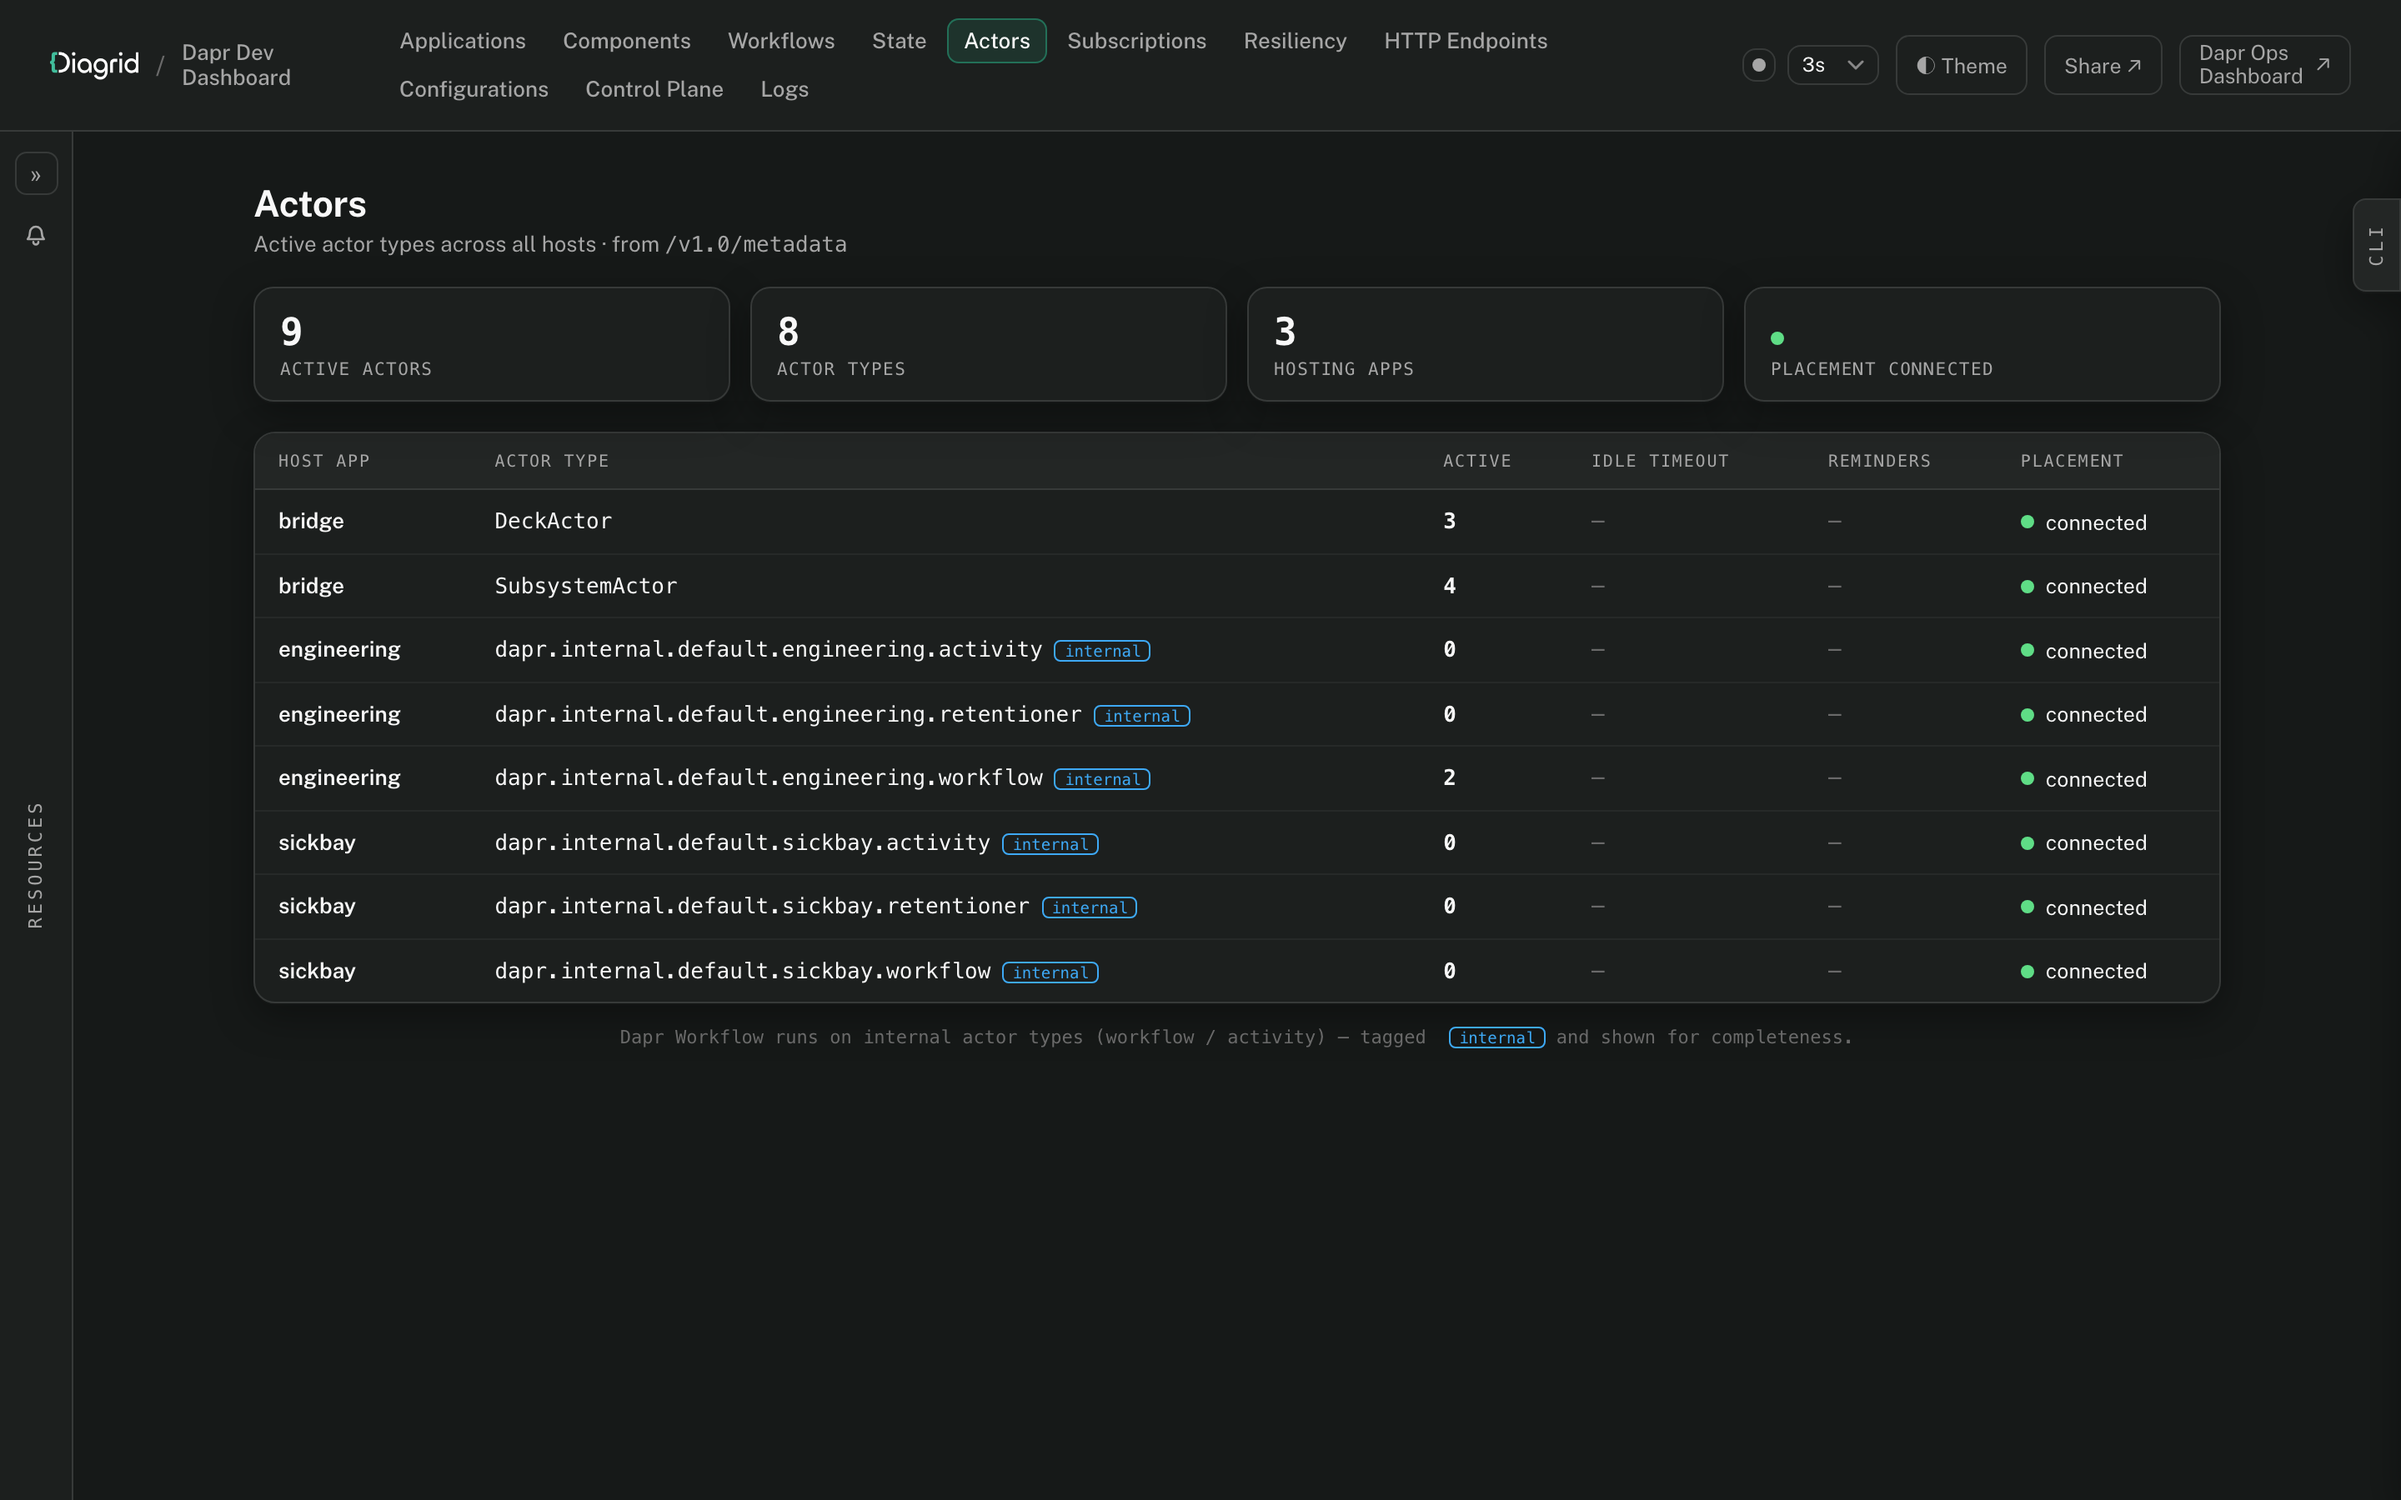
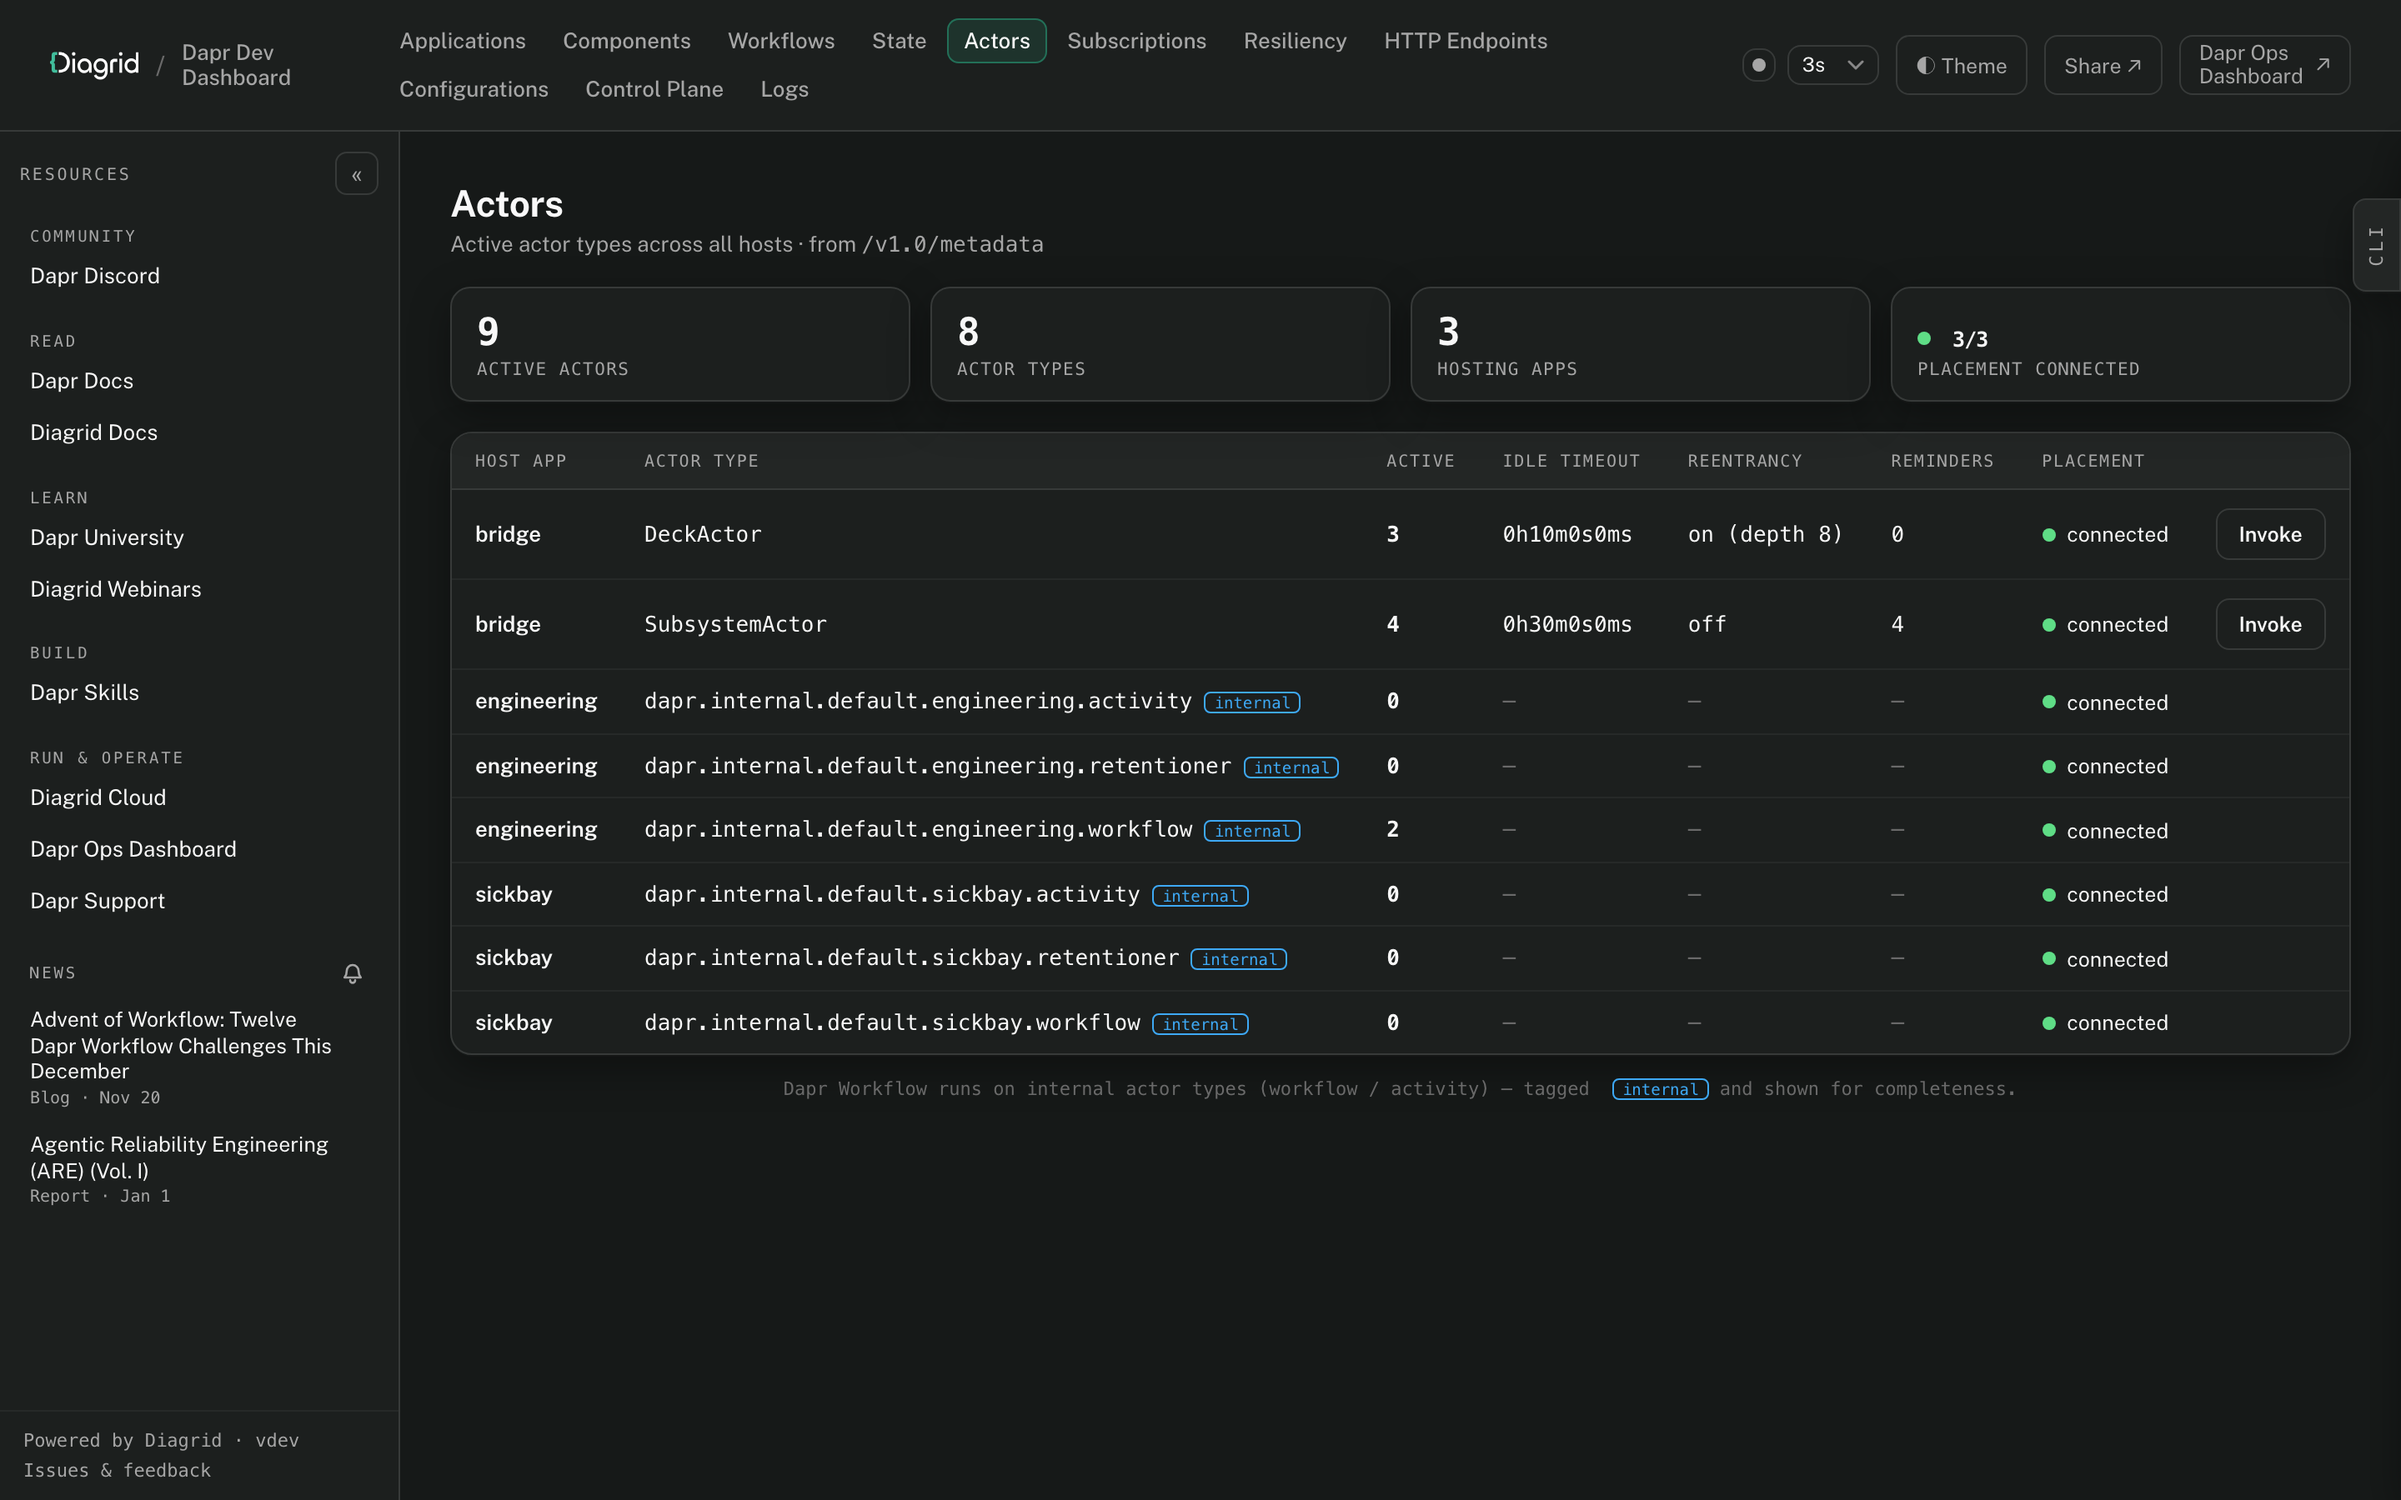
docs: actor pages and invoke screenshots

diff --git a/demo/README.md b/demo/README.md
@@ -59,7 +59,7 @@ The dashboard opens at <http://localhost:9090>.
 | App | Language | Dapr features | Dashboard pages |
 |---|---|---|---|
 | `engineering` | Go (go-sdk 1.16) | Workflows: `DiagnosticSweep` parents with `SubsystemCheck` children, activities, a durable timer, an external event, a 1.19 data reference (large payload in `binarystore.in-memory`); service-invocation target; cron input binding | Workflows, Workflow detail, Apps, App detail, Logs |
-| `bridge` | .NET (`Dapr.*` 1.19.0) | Actors `SubsystemActor` and `DeckActor` with reminders and a `status-poll` actor timer; pub/sub publish; service invocation to `engineering` and `sickbay`; secret store read | Actors, Apps, App detail, Logs |
+| `bridge` | .NET (`Dapr.*` 1.19.0) | Actors `SubsystemActor` and `DeckActor` with reminders that carry data, a `status-poll` actor timer, a `SetPowerLevelAsync` method to invoke and per-type config (idle timeout, reentrancy); pub/sub publish; service invocation to `engineering` and `sickbay`; secret store read | Actors, Actor type, Actor detail, Apps, App detail, Logs |
 | `sickbay` | Python (`dapr[workflow,fastapi]` 1.19.0) | Declarative (`red-alert-sub`) and programmatic (`diagnostics.results`) subscriptions; state store writes; a small `CrewHealthScan` workflow; a call through the `starfleet-command` HTTPEndpoint | Subscriptions, State, HTTP Endpoints, Workflows, Apps, Logs |
 | shared (`resources/`) | — | Redis state store (actor store) and pub/sub, cron binding, local-file secret store, `binarystore.in-memory`, Configuration `diagnostics` (tracing, a feature flag), Resiliency `ship-systems`, HTTPEndpoint `starfleet-command` with a secret-backed header | Components, Configurations, Resiliency, HTTP Endpoints, Control Plane |
 
@@ -70,7 +70,10 @@ The seeded scenario:
   arrives; `sweep-006` has a data-reference payload. Each sweep has four children, such as
   `sweep-001-shields`. In `sickbay`, `medscan-001` completed.
 - **Actors:** `SubsystemActor` warp-core, shields, deflector, life-support (each with a 24 h
-  `diagnostic-heartbeat` reminder), and `DeckActor` deck-01, deck-07, deck-12.
+  `diagnostic-heartbeat` reminder that carries `{"subsystem":"<id>"}` as data), and `DeckActor`
+  deck-01, deck-07, deck-12. `SubsystemActor` has a 30 minute idle timeout and reentrancy off;
+  `DeckActor` has a 10 minute idle timeout and reentrancy on (depth 8). To try **Invoke**, call
+  `SetPowerLevelAsync` on `shields` with the body `{"level": 80}`.
 - **State:** `crewlog-0001` to `crewlog-0006`, `alert-RA-0001` to `alert-RA-0004` (delivered
   through `red-alert`), and `result-DR-0001` (delivered through `diagnostics.results`).
 

diff --git a/README.md b/README.md
@@ -525,11 +525,32 @@ Expand a row to see the full value with its size, version and encoding. **+ New 
 
 ## Actors
 
-The **Actors** page lists the actor types across all apps: the host app, the number of active actors, the idle timeout, reminders and placement status.
+The **Actors** page lists the actor types across all apps: the host app, the number of active actors, the idle timeout, reentrancy, reminders and placement status. The idle timeout and reentrancy come from the app's own actor config.
 
 <picture>
   <source media="(prefers-color-scheme: dark)" srcset="docs/images/actors-dark.png">
   <img alt="Dev Dashboard - Actors" src="docs/images/actors-light.png">
+</picture>
+
+Select a type to see its actors. Dapr doesn't list active actor IDs, so the list shows the actors that have state or reminders. Use **Go** to open any actor ID.
+
+<picture>
+  <source media="(prefers-color-scheme: dark)" srcset="docs/images/actor-type-dark.png">
+  <img alt="Dev Dashboard - Actor type" src="docs/images/actor-type-light.png">
+</picture>
+
+The actor page shows its state, its reminders (with **Delete**) and its timers (Dapr 1.19 and later).
+
+<picture>
+  <source media="(prefers-color-scheme: dark)" srcset="docs/images/actor-detail-dark.png">
+  <img alt="Dev Dashboard - Actor detail" src="docs/images/actor-detail-light.png">
+</picture>
+
+**Invoke** opens a dialog that calls a method on an actor. Enter the actor ID and method, pick an HTTP verb and optionally set a JSON body. The call goes through the app's sidecar and runs real app code on the actor host, so it can change state. For .NET actors, the body is the method's single parameter.
+
+<picture>
+  <source media="(prefers-color-scheme: dark)" srcset="docs/images/invoke-actor-dark.png">
+  <img alt="Dev Dashboard - Invoke an actor" src="docs/images/invoke-actor-light.png">
 </picture>
 
 ## Subscriptions
